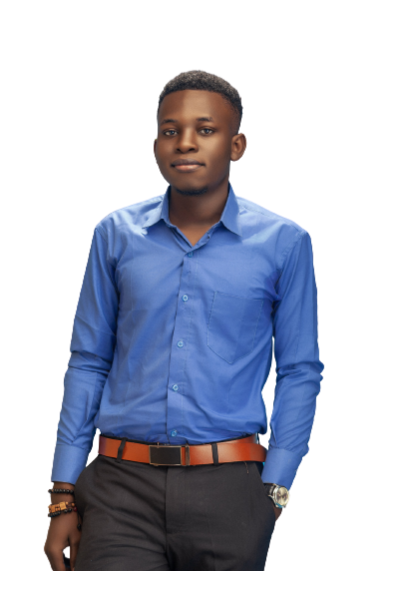
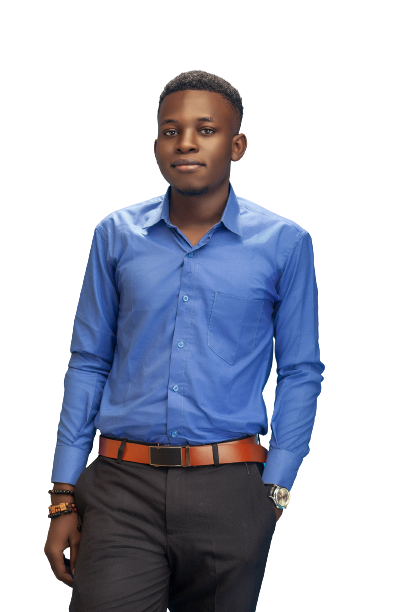
picture review

diff --git a/index.html b/index.html
@@ -69,7 +69,7 @@
             <!-- about wrapper -->
             <div class="about">
                 <div class="about-img-holder">
-                    <img src="assets/imgs/_photo.png" class="about-img" alt="My photo">
+                    <img src="assets/imgs/photo.png" class="about-img" alt="My photo">
                 </div>
                 <div class="about-caption">
                     <p class="section-subtitle">Who Am I ?</p>
